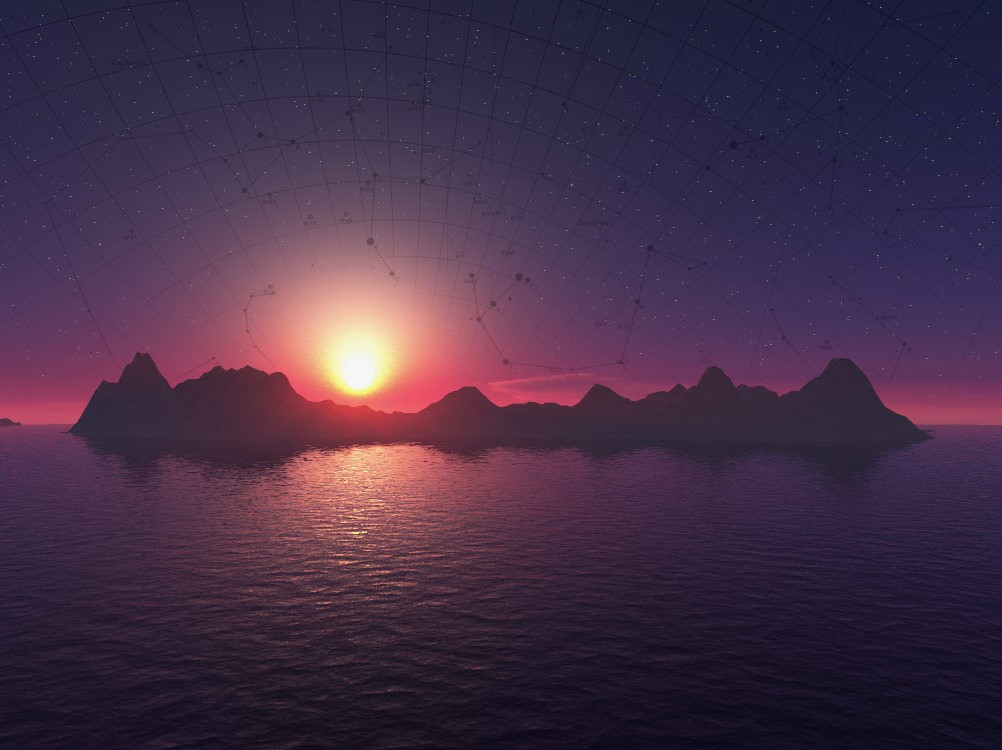
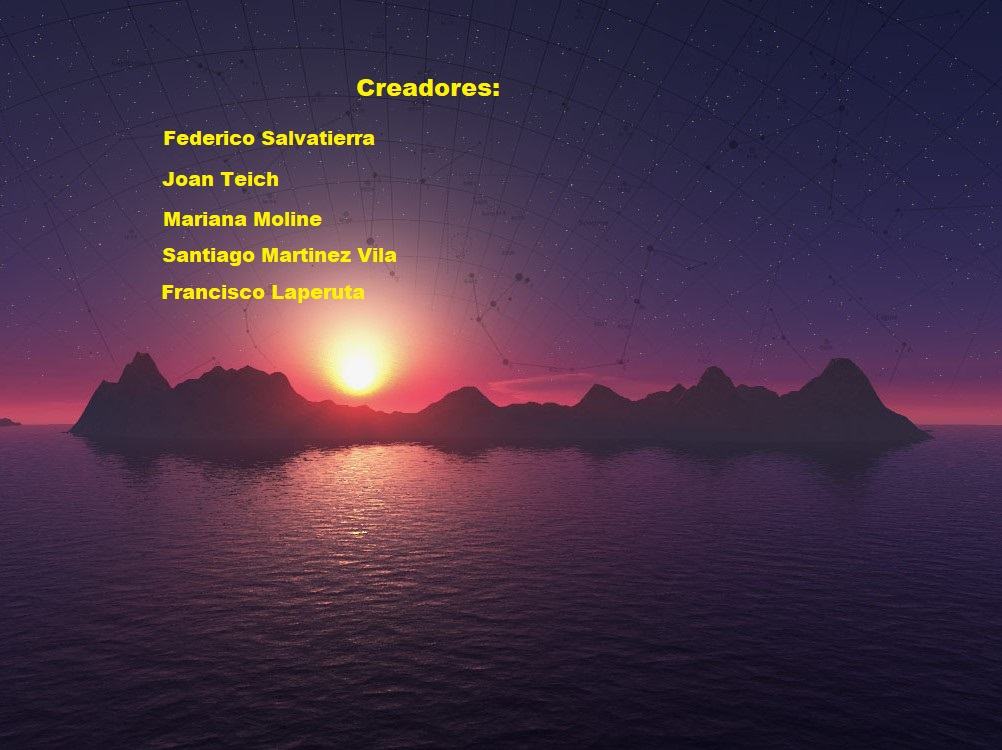
Cambios en credito
Estoy intentando crear un boton hacia atras que se active con un click, ya logre hacer los creditos faltaria eso nada mas

Changed region(s): [[0.1547, 0.1533, 0.4022, 0.3987], [0.3403, 0.092, 0.495, 0.1533]]

diff --git a/Creditos.py b/Creditos.py
@@ -4,22 +4,35 @@ import submenu as dm
 ancho =600
 alto =800
 
+reloj1=pygame.time.Clock()
+volver=pygame.image.load("Imagenes\Volver.jpg")
+class Cursor(pygame.Rect):
+        def __init__(self):
+                pygame.Rect.__init__(self,0,0,1,1)
+        def update(self):
+                self.left,self.top=pygame.mouse.get_pos()
+class Boton (pygame.sprite.Sprite):
+        def __init__ (self,imagen1,x=100,y=700):
+                self.imagen_=imagen1
+                self.rect=self.imagen_.get_rect()
+                self.rect.left,self.rect.top=(x,y)
+                
+cursor1=Cursor()
+boton1=Boton(volver)
+salir = True
+while salir:
+        pygame.init()
+        ventana = pygame.display.set_mode((alto,ancho))
+        fondo=pygame.image.load("imagenes/Fondo_Creditos.jpg").convert_alpha()
+        ventana.blit(fondo, (0, 0))
+        pygame.display.flip()
+        
+        reloj1.tick(20)
+        cursor1.update()
+        boton1.update(ventana,cursor1)
+        pygame.display.update()
+        
 
-pygame.init()
-ventana = pygame.display.set_mode((alto,ancho))
-fondo=pygame.image.load("imagenes/Fondo_Creditos.jpg").convert_alpha()
 
-choose = dm.dumbmenu (ventana,[
-                    'Creadores:',
-           ' Federico Salvatierra',
-           ' Joan Teich',
-           ' Santiago Martinez Vila',
-           ' Mariana Moline',
-           ' Francisco Laperuta'])
-
-
-
-if __name__ == '__main__':
-	sys.stderr.write("You should import me, not start me...")
-	sys.exit()
-pygame.quit()
+quit()
+        
